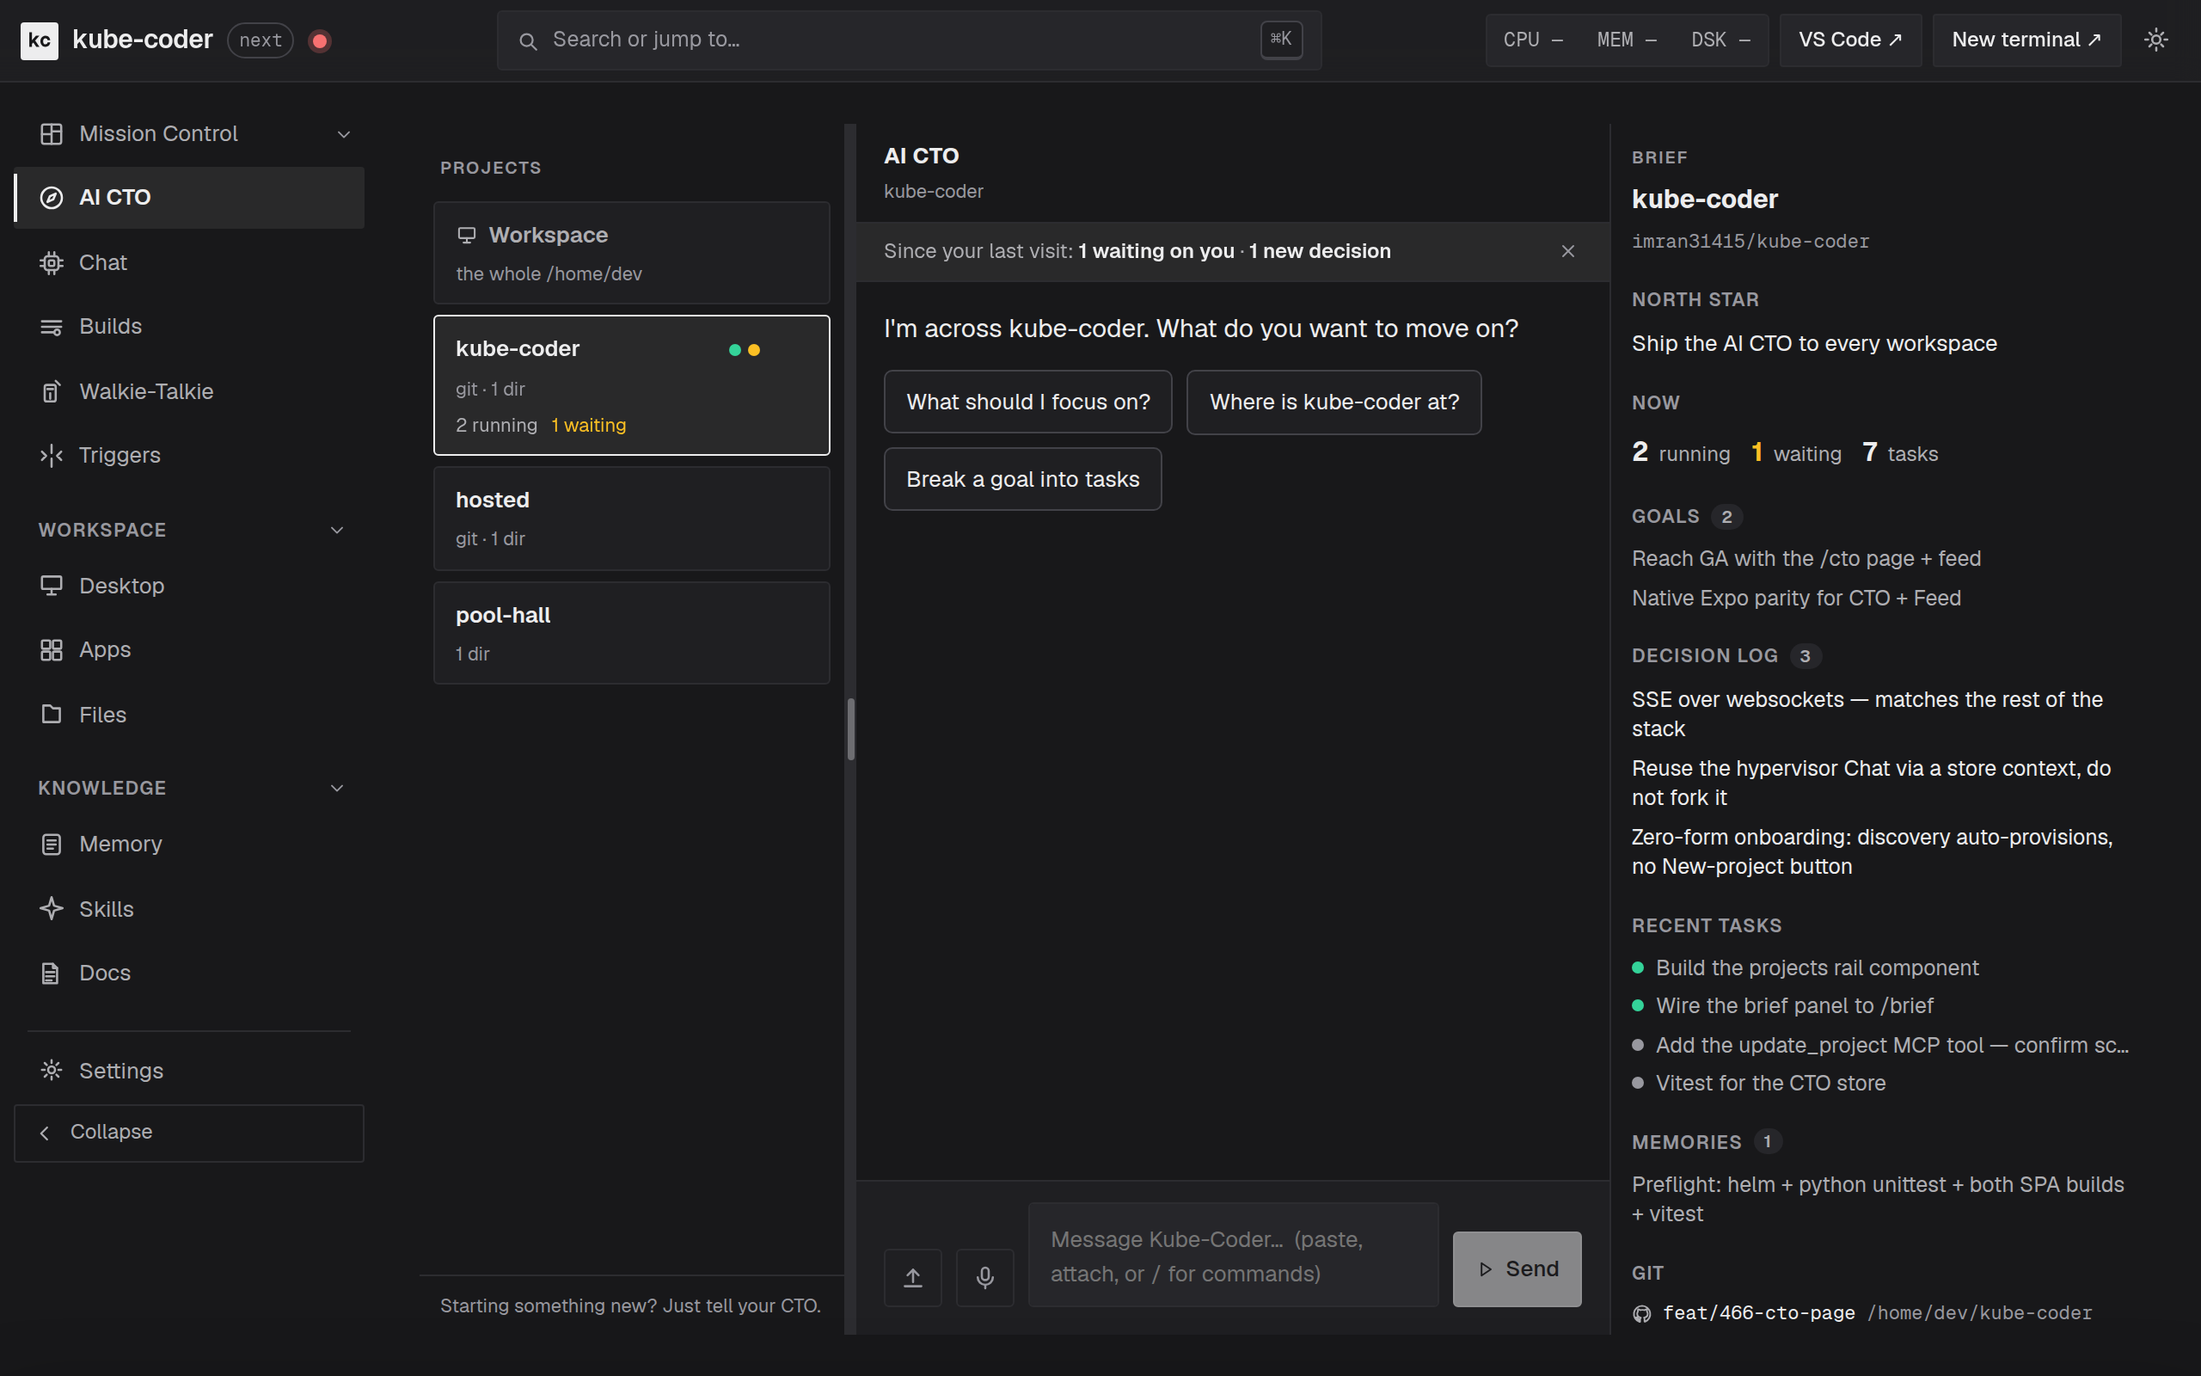
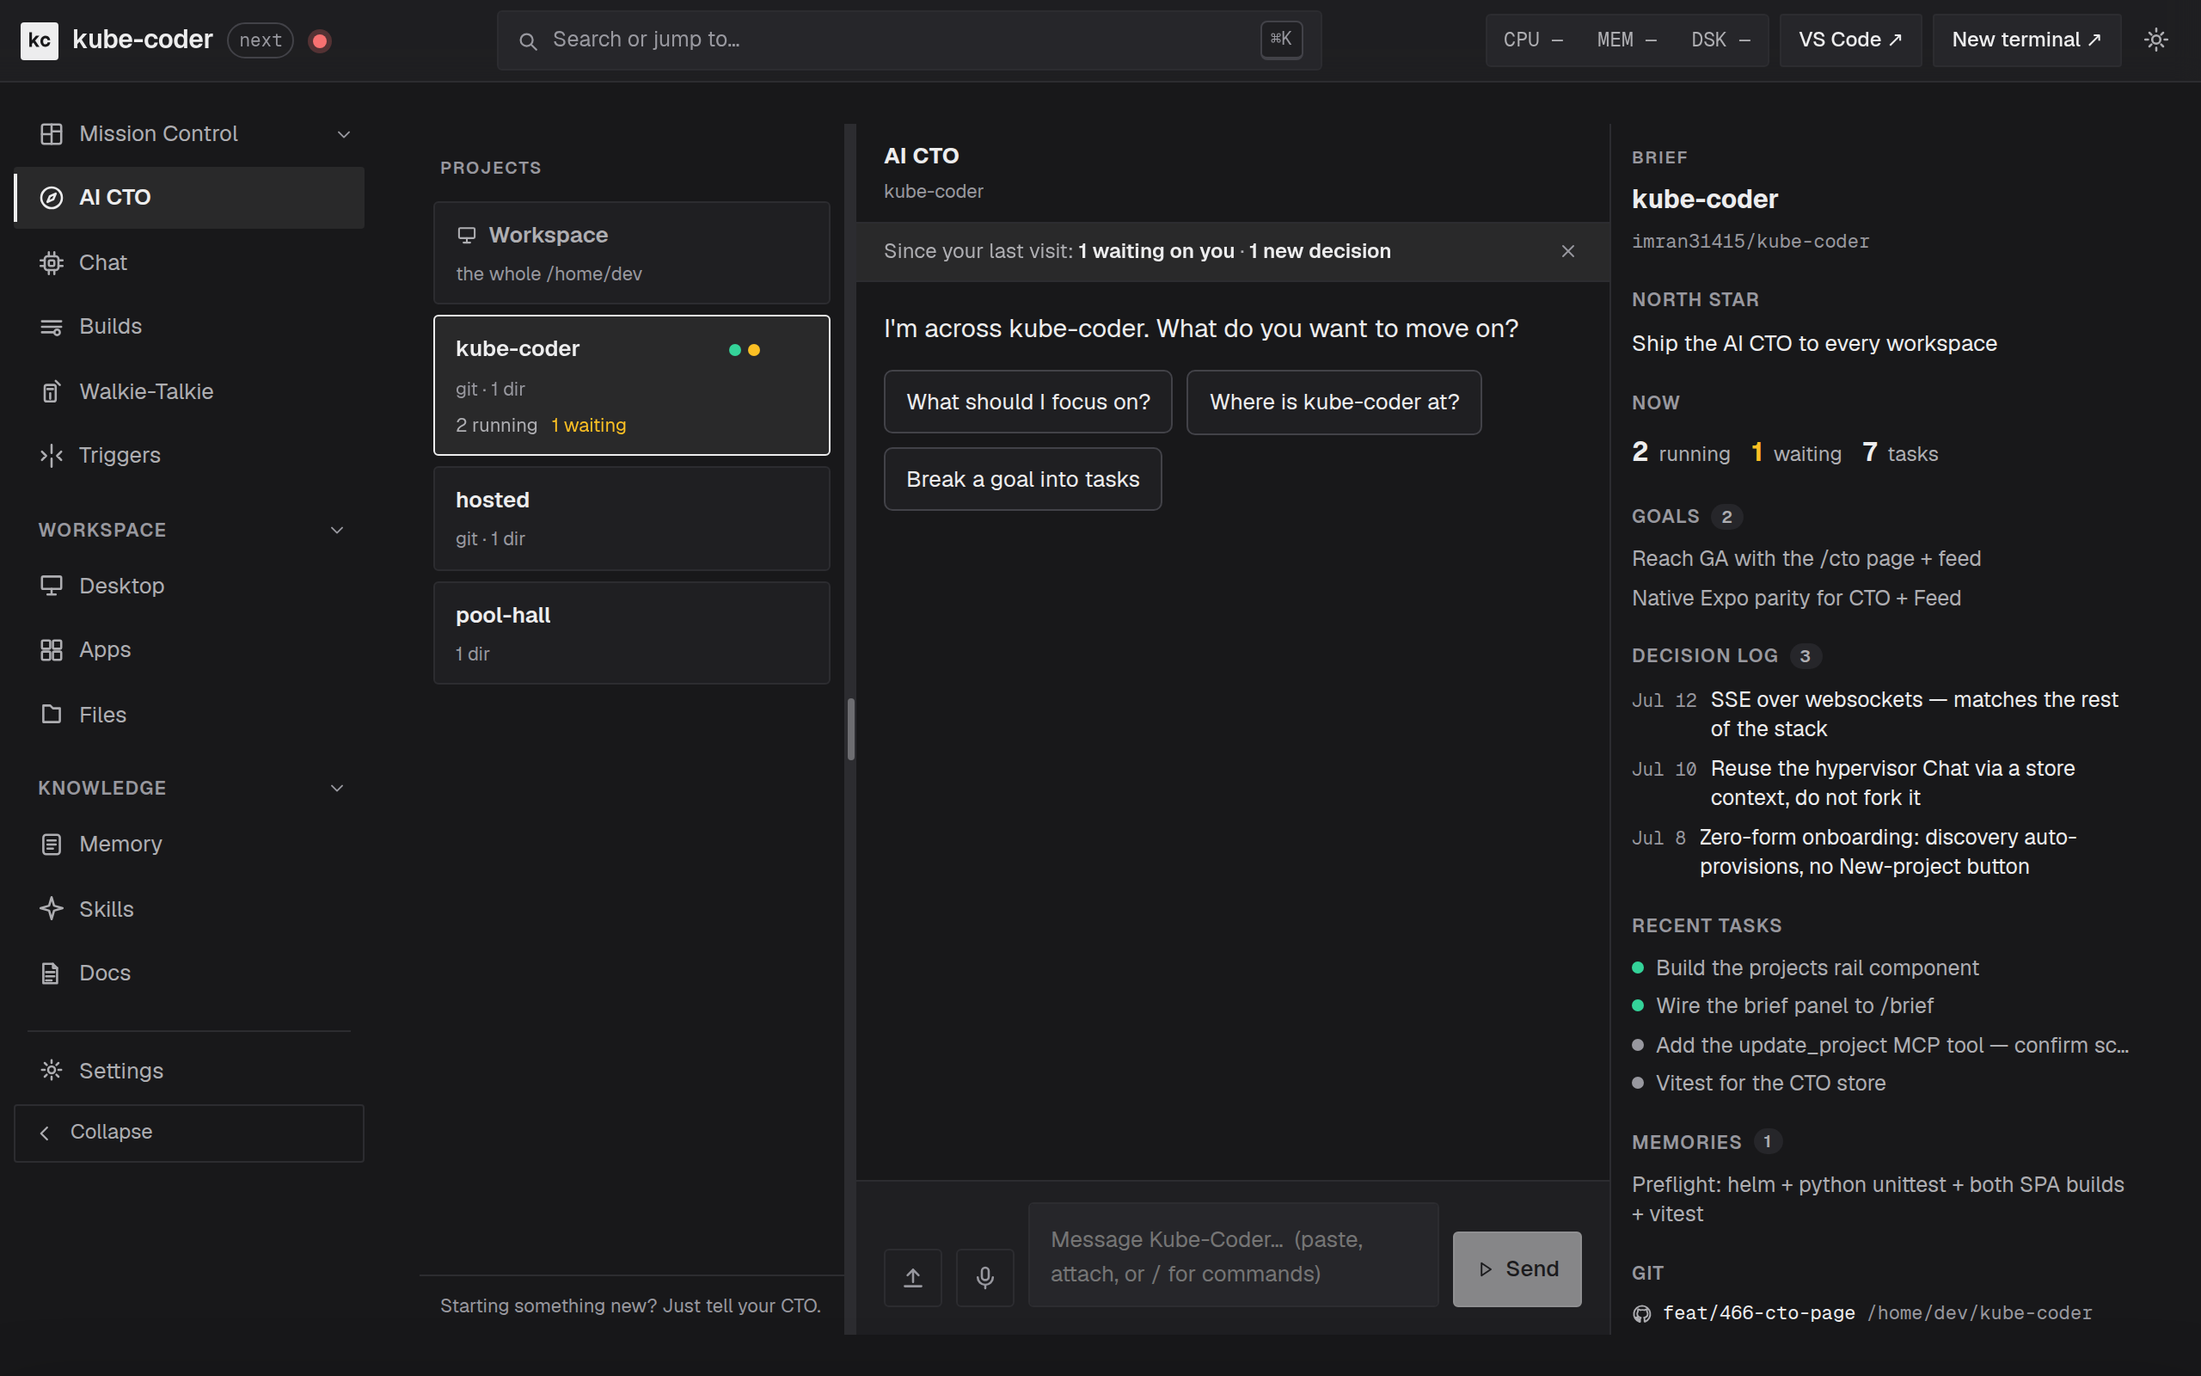
feat(cto): cto.enabled gate + Mission Control integration + decision-log dates (#467)
Part 4 of the AI CTO epic (#468) — integration + a config gate. Scoped to the
concrete, complete items; the weekly-review cron template is deferred to a
follow-up and the native mobile screen is #471 (both explicitly droppable per
the issue).

Config gate (cto.enabled, defaults to following hypervisor.enabled):
- values.yaml `cto.enabled` + deployment.yaml `CTO_ENABLED` env (via `dig`, not
  `default`, so an explicit `false` actually disables — sprig's `default`
  treats boolean false as empty).
- server.py `CTO_ENABLED` + `cto_available()` (on only when the flag AND the
  Hypervisor it rides are up). The projects API 404s behind `_require_cto()`,
  the CTO persona downgrades to a plain chat when off, and `/api/mode` +
  `/api/hypervisor/config` expose `ctoEnabled`.
- SPA: `visibleNavGroups()` hides the /cto nav item (Rail + More sheet) when
  disabled; the route renders a disabled EmptyState on a deep link. Driven by
  the boot-loaded `/api/mode` flag so nav never flashes.

Mission Control integration:
- `_mc_thread_card` surfaces `persona`/`project_id`; CTO chat cards get an
  "AI CTO" badge (accent wash) and `cardHref` routes them to /cto instead of
  the plain chat tab.

Decision-log timeline: the brief panel's decision entries now show their date.

Tests: tests/cto_gate_test.py (cto_available matrix, _require_cto 404, projects
API gate, mission-card persona) + persona-downgrade case; web
router.visibleNavGroups, MissionCard.cardHref, and the decision-date render.
[…]

Changed region(s): [[0.7188, 0.5, 0.9688, 0.6562]]

diff --git a/charts/workspace/web/src/routes/cto/index.tsx b/charts/workspace/web/src/routes/cto/index.tsx
@@ -1,8 +1,10 @@
 import { useEffect, useRef, useState } from 'preact/hooks';
 import { Icon } from '../../components/Icon';
 import { Pill } from '../../components/primitives/Pill';
+import { EmptyState } from '../../components/primitives/EmptyState';
 import { BottomSheet } from '../../components/BottomSheet';
 import { useIsMobile } from '../../hooks/useMediaQuery';
+import { serverMode } from '../../store/server-mode';
 import { Chat } from '../hypervisor/Chat';
 import {
   activeThreadId,
@@ -49,6 +51,7 @@ function starterChips(projectName: string | null): string[] {
 
 export function CtoRoute() {
   const isMobile = useIsMobile();
+  const disabled = serverMode.value.ctoEnabled === false;
   const [briefOpen, setBriefOpen] = useState(false);
   const [deltaDismissed, setDeltaDismissed] = useState(false);
 
@@ -77,6 +80,7 @@ export function CtoRoute() {
   // registry (discovery auto-provisions), and poll. Reset everything on leave
   // so the plain Chat tab is never left in CTO mode.
   useEffect(() => {
+    if (disabled) return;
     setChatContext('cto', null);
     void initHypervisor();
     startProjectsPolling();
@@ -86,13 +90,14 @@ export function CtoRoute() {
       closeThread();
       stopProjectsPolling();
     };
-  }, []);
+  }, [disabled]);
 
   // React to the selected project: rebind the chat context, re-filter the
   // thread list to this project, and continue its latest thread (or a fresh
   // one). Runs on auto-select and on every rail click.
   const selId = selectedProjectId.value;
   useEffect(() => {
+    if (disabled) return;
     setChatContext('cto', selId);
     let cancelled = false;
     void refreshThreads().then(() => {
@@ -104,7 +109,7 @@ export function CtoRoute() {
     return () => {
       cancelled = true;
     };
-  }, [selId]);
+  }, [selId, disabled]);
 
   const active = activeThreadId.value;
   const status = activeStatus.value;
@@ -130,6 +135,25 @@ export function CtoRoute() {
   const chips = starterChips(projectName);
 
   const brandLine = 'Engineering judgment for your whole workspace';
+
+  // Deep-linked to /cto on a deployment where the feature is off (#467).
+  if (disabled) {
+    return (
+      <div class="route route-cto route-cto-disabled">
+        <EmptyState
+          icon={<Icon name="cto" size={26} />}
+          title="AI CTO is disabled"
+          description={
+            <>
+              Enable it in the workspace chart (<code>cto.enabled</code>). It
+              rides the Hypervisor, so <code>hypervisor.enabled</code> must be on
+              too.
+            </>
+          }
+        />
+      </div>
+    );
+  }
 
   return (
     <div

diff --git a/charts/workspace/web/src/components/Rail.tsx b/charts/workspace/web/src/components/Rail.tsx
@@ -3,11 +3,12 @@ import {
   currentPath,
   navigate,
   matchRoute,
-  NAV_GROUPS,
+  visibleNavGroups,
   navGroupFor,
   navLabel,
   type NavGroup,
 } from '../store/router';
+import { serverMode } from '../store/server-mode';
 import {
   railCollapsed,
   previewFullscreen,
@@ -115,6 +116,8 @@ function RailGroup({ group, active }: { group: NavGroup; active: string }) {
 export function Rail() {
   const active = matchRoute(currentPath.value).path;
   const collapsed = railCollapsed.value;
+  // Hide capability-gated items (AI CTO when disabled server-side, #467).
+  const groups = visibleNavGroups({ ctoEnabled: serverMode.value.ctoEnabled });
 
   // Auto-expand the group containing the active route (never auto-collapse
   // others) so palette/bottom-nav jumps always land on a visible item.
@@ -136,7 +139,7 @@ export function Rail() {
           ? // Icon-only mode: groups flatten to icon runs separated by
             // hairline dividers; no disclosure. The Mission landing icon
             // leads its group.
-            NAV_GROUPS.map((g, idx) => (
+            groups.map((g, idx) => (
               <div class="rail-group" key={g.id}>
                 {idx > 0 && <div class="rail-divider" role="separator" />}
                 {g.landing && <RailItem path={g.landing} active={active} />}
@@ -145,7 +148,7 @@ export function Rail() {
                 ))}
               </div>
             ))
-          : NAV_GROUPS.map((g) => <RailGroup key={g.id} group={g} active={active} />)}
+          : groups.map((g) => <RailGroup key={g.id} group={g} active={active} />)}
         {/* Settings + Collapse flow with the nav as a final group (#448):
             a bottom slab pinned via margin-top:auto gets pushed below the
             fold once the rail overflows and starts scrolling. */}

diff --git a/charts/workspace/web/src/routes/mission/MissionCard.tsx b/charts/workspace/web/src/routes/mission/MissionCard.tsx
@@ -39,10 +39,13 @@ function timeLabel(card: Card): string {
   return at ? `${rel(now - at)} ago` : '';
 }
 
-/** Route for a card (or a lineage reference by namespaced id). */
-export function cardHref(id: string): string {
+/** Route for a card (or a lineage reference by namespaced id). An AI-CTO chat
+ *  (persona 'cto') opens the /cto page rather than the plain chat tab (#467);
+ *  lineage refs have no persona and fall through to the default. */
+export function cardHref(id: string, persona?: string): string {
   const [kind, ref] = id.split(/:(.*)/s);
-  return kind === 'chat' ? `/hypervisor/${ref}` : `/tasks/${ref}`;
+  if (kind === 'chat') return persona === 'cto' ? '/cto' : `/hypervisor/${ref}`;
+  return `/tasks/${ref}`;
 }
 
 /** Evidence chip row on a Done card (and in the drawer): test tallies and
@@ -95,7 +98,8 @@ export function MissionCard({
 
   const live = card.state === 'running' || card.state === 'waiting';
   const isTask = card.kind !== 'chat';
-  const open = () => navigate(cardHref(card.id));
+  const isCto = card.persona === 'cto';
+  const open = () => navigate(cardHref(card.id, card.persona));
   const select = onSelect ? () => onSelect(card.id) : open;
 
   async function onKill() {
@@ -142,7 +146,9 @@ export function MissionCard({
       data-card-id={card.id}
     >
       <div class="mission-card-row">
-        <span class="mission-kind">{KIND_LABEL[card.kind]}</span>
+        <span class={`mission-kind ${isCto ? 'mission-kind-cto' : ''}`}>
+          {isCto ? 'AI CTO' : KIND_LABEL[card.kind]}
+        </span>
         {(card.assistant || card.model) && (
           <span class="mission-agent">
             {card.assistant}

diff --git a/charts/workspace/web/src/routes/cto/BriefPanel.tsx b/charts/workspace/web/src/routes/cto/BriefPanel.tsx
@@ -36,9 +36,24 @@ function memoryHref(m: BriefMemory): string {
   return `/memory?namespace=${encodeURIComponent(m.namespace)}`;
 }
 
-function MemoryRow({ m }: { m: BriefMemory }) {
+/** Short absolute date (e.g. "Jul 26") for the decision-log timeline (#467). */
+function shortDate(epochSeconds: number | null): string {
+  if (!epochSeconds) return '';
+  try {
+    return new Date(epochSeconds * 1000).toLocaleDateString(undefined, {
+      month: 'short',
+      day: 'numeric',
+    });
+  } catch {
+    return '';
+  }
+}
+
+function MemoryRow({ m, withDate = false }: { m: BriefMemory; withDate?: boolean }) {
+  const date = withDate ? shortDate(m.updated_at) : '';
   return (
     <li class="cto-brief-item">
+      {date && <span class="cto-brief-date">{date}</span>}
       <a
         href={memoryHref(m)}
         class="cto-brief-link"
@@ -136,7 +151,7 @@ export function BriefPanel() {
         <Section title="Decision log" count={b.counts.decisions}>
           <ul class="cto-brief-list cto-brief-decisions">
             {b.decisions.map((d) => (
-              <MemoryRow key={`${d.namespace}/${d.key}`} m={d} />
+              <MemoryRow key={`${d.namespace}/${d.key}`} m={d} withDate />
             ))}
           </ul>
         </Section>

diff --git a/charts/workspace/web/src/store/router.test.ts b/charts/workspace/web/src/store/router.test.ts
@@ -7,6 +7,7 @@ import {
   routeHref,
   ROUTES,
   NAV_GROUPS,
+  visibleNavGroups,
   navGroupFor,
   navLabel,
 } from './router';
@@ -71,6 +72,20 @@ describe('NAV_GROUPS (#267)', () => {
     const expected = ROUTES.map((r) => r.path).filter((p) => p !== '/settings');
     expect([...grouped].sort()).toEqual([...expected].sort());
     expect(new Set(grouped).size).toBe(grouped.length);
+  });
+
+  it('visibleNavGroups hides /cto only when ctoEnabled is explicitly false (#467)', () => {
+    const paths = (gs: ReturnType<typeof visibleNavGroups>) =>
+      gs.flatMap((g) => g.items.map((i) => i.path));
+    // Default / undefined / true → /cto present.
+    expect(paths(visibleNavGroups({}))).toContain('/cto');
+    expect(paths(visibleNavGroups({ ctoEnabled: true }))).toContain('/cto');
+    // Explicit false → filtered out, everything else intact.
+    const hidden = visibleNavGroups({ ctoEnabled: false });
+    expect(paths(hidden)).not.toContain('/cto');
+    expect(paths(hidden)).toContain('/hypervisor');
+    // Pure: the module constant is not mutated.
+    expect(NAV_GROUPS.flatMap((g) => g.items.map((i) => i.path))).toContain('/cto');
   });
 
   it('navGroupFor resolves items and landings, and misses /settings', () => {

diff --git a/charts/workspace/web/src/routes/more/index.tsx b/charts/workspace/web/src/routes/more/index.tsx
@@ -1,4 +1,4 @@
-import { navigate, NAV_GROUPS, navLabel } from '../../store/router';
+import { navigate, visibleNavGroups, navLabel } from '../../store/router';
 import { sheetOpen, theme } from '../../store/ui';
 import { Icon, type IconName } from '../../components/Icon';
 import { Button } from '../../components/primitives/Button';
@@ -101,7 +101,7 @@ export function MoreSheet() {
   // have BottomNav slots) so the sheet doubles as a complete site map.
   const sections: MoreSection[] = [
     { title: 'Quick actions', entries: quickActions },
-    ...NAV_GROUPS.map((g) => ({
+    ...visibleNavGroups({ ctoEnabled: serverMode.value.ctoEnabled }).map((g) => ({
       title: g.title,
       entries: [
         ...(g.landing ? [routeEntry(g.landing, 'Overview')] : []),

diff --git a/charts/workspace/web/src/store/router.ts b/charts/workspace/web/src/store/router.ts
@@ -140,6 +140,21 @@ export const NAV_GROUPS: NavGroup[] = [
   },
 ];
 
+/**
+ * NAV_GROUPS with capability-gated items removed. Currently only `/cto`, hidden
+ * when the AI CTO feature is disabled server-side (#467). Pure — callers pass
+ * the flags (from serverMode) so this module stays free of store imports.
+ */
+export function visibleNavGroups(caps: { ctoEnabled?: boolean }): NavGroup[] {
+  if (caps.ctoEnabled === false) {
+    return NAV_GROUPS.map((g) => ({
+      ...g,
+      items: g.items.filter((i) => i.path !== '/cto'),
+    }));
+  }
+  return NAV_GROUPS;
+}
+
 /** The nav group containing `path` (as landing or item), if any. */
 export function navGroupFor(path: string): NavGroup | undefined {
   return NAV_GROUPS.find(

diff --git a/charts/workspace/web/src/routes/mission/MissionCard.test.tsx b/charts/workspace/web/src/routes/mission/MissionCard.test.tsx
@@ -1,0 +1,18 @@
+import { describe, expect, it } from 'vitest';
+import { cardHref } from './MissionCard';
+
+describe('cardHref (#467 CTO routing)', () => {
+  it('routes a plain chat card to the Hypervisor tab', () => {
+    expect(cardHref('chat:abc123')).toBe('/hypervisor/abc123');
+    expect(cardHref('chat:abc123', '')).toBe('/hypervisor/abc123');
+  });
+
+  it('routes an AI-CTO chat card to /cto', () => {
+    expect(cardHref('chat:abc123', 'cto')).toBe('/cto');
+  });
+
+  it('routes build / subagent cards to the task detail regardless of persona', () => {
+    expect(cardHref('build:t1')).toBe('/tasks/t1');
+    expect(cardHref('subagent:s1', 'cto')).toBe('/tasks/s1');
+  });
+});

diff --git a/charts/workspace/web/src/routes/cto/cto.css b/charts/workspace/web/src/routes/cto/cto.css
@@ -369,6 +369,18 @@
 }
 .cto-brief-link:hover { color: var(--text); text-decoration: underline; }
 .cto-brief-decisions .cto-brief-link { color: var(--text); }
+.cto-brief-decisions .cto-brief-item {
+  display: grid;
+  grid-template-columns: auto 1fr;
+  gap: 8px;
+  align-items: baseline;
+}
+.cto-brief-date {
+  font-size: 10.5px;
+  font-family: var(--font-mono);
+  color: var(--text-subtle);
+  white-space: nowrap;
+}
 .cto-brief-task { display: flex; align-items: center; gap: 7px; -webkit-line-clamp: 1; }
 .cto-brief-task-text { overflow: hidden; text-overflow: ellipsis; white-space: nowrap; }
 .cto-brief-gitrow {

diff --git a/charts/workspace/web/src/routes/cto/BriefPanel.test.tsx b/charts/workspace/web/src/routes/cto/BriefPanel.test.tsx
@@ -62,4 +62,13 @@ describe('BriefPanel', () => {
     const link = screen.getByTitle('build the rail') as HTMLAnchorElement;
     expect(link.getAttribute('href')).toBe('/tasks/t1');
   });
+
+  it('renders a date on each decision-log entry (#467 timeline)', () => {
+    selectedProjectId.value = 'kc';
+    brief.value = sample;
+    const { container } = render(<BriefPanel />);
+    const dates = container.querySelectorAll('.cto-brief-decisions .cto-brief-date');
+    expect(dates.length).toBe(sample.decisions.length);
+    expect((dates[0].textContent ?? '').length).toBeGreaterThan(0);
+  });
 });

diff --git a/charts/workspace/web/src/api/mission.ts b/charts/workspace/web/src/api/mission.ts
@@ -48,6 +48,11 @@ export interface MissionCard {
   /** Raw id for task/thread API calls (kill, follow-up, navigation). */
   ref_id: string;
   kind: MissionKind;
+  /** Chat persona (#467): 'cto' for an AI-CTO thread, '' for a plain chat.
+   *  Drives the CTO badge and routes the card to /cto instead of /hypervisor. */
+  persona?: string;
+  /** The project an AI-CTO thread is bound to, when persona === 'cto'. */
+  project_id?: string;
   state: MissionState;
   title: string;
   /** Derived one-liner of the card's current activity. */

diff --git a/charts/workspace/web/src/api/system.ts b/charts/workspace/web/src/api/system.ts
@@ -18,6 +18,10 @@ export interface ServerMode {
    *  demo deploy), MutatorOnly renders mutation controls disabled instead of
    *  hiding them, so visitors see the full UI. The server still 403s writes. */
   demoShowAll?: boolean;
+  /** AI CTO feature gate (#467). Undefined/true → the /cto nav item + route
+   *  are shown; false hides them (deployment set `cto.enabled: false`, or the
+   *  Hypervisor it rides is off). */
+  ctoEnabled?: boolean;
 }
 
 export const getMode = () => apiGet<ServerMode>('/api/mode');
